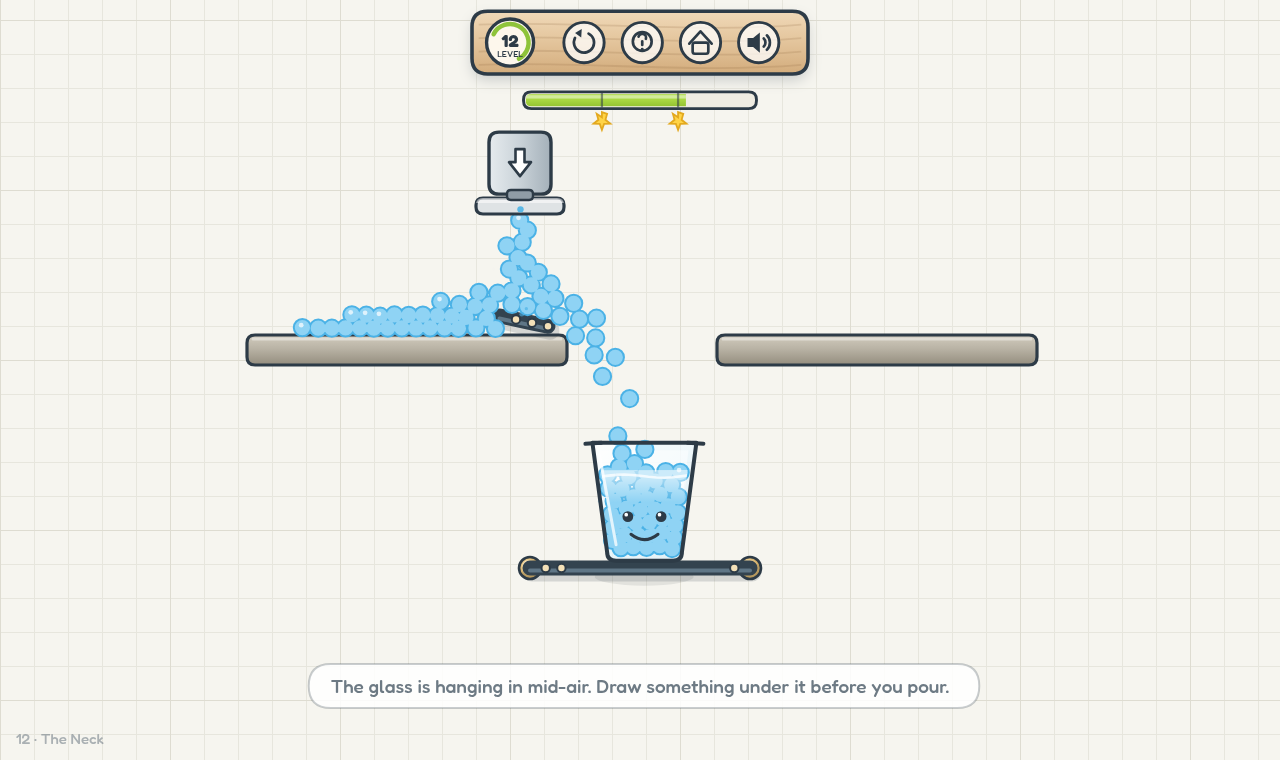
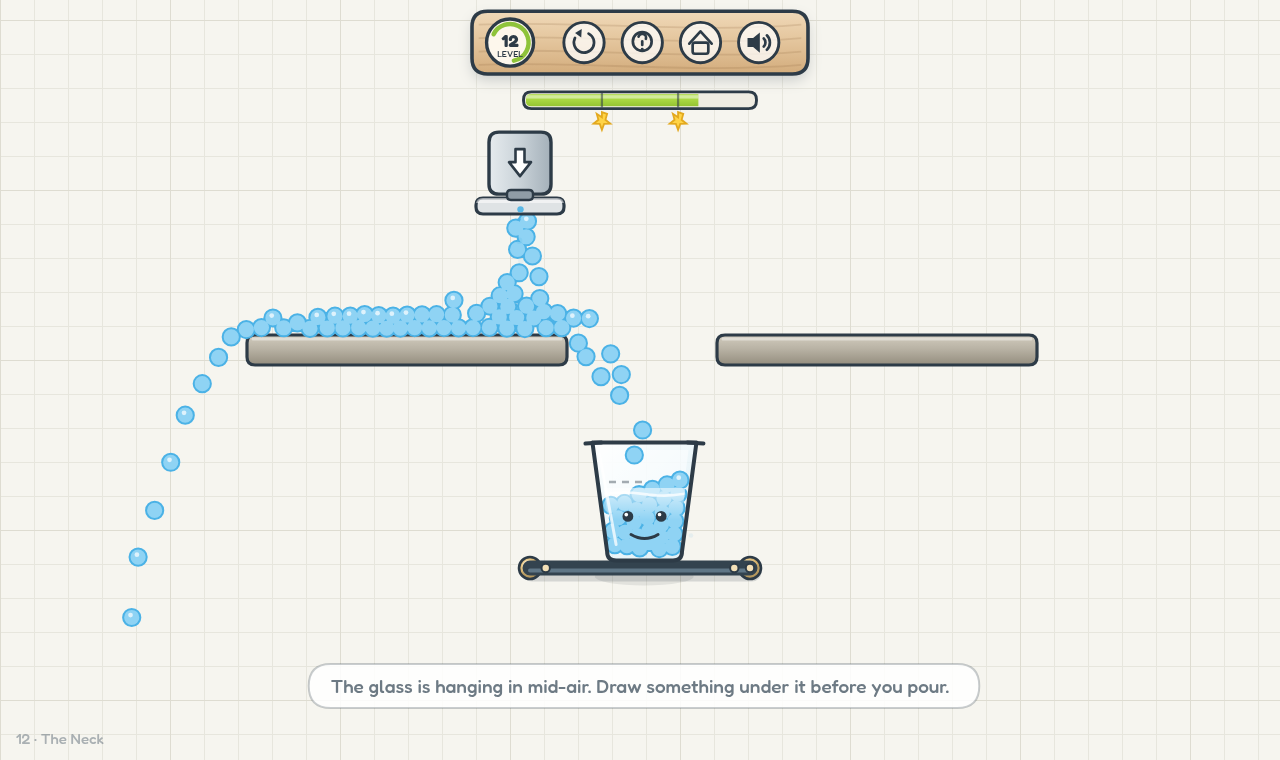
fix ink self-anchoring, anchor-aware solutions, smoke coverage for falling ink and live tap

diff --git a/tools/solutions.js b/tools/solutions.js
@@ -12,54 +12,53 @@
 
 module.exports = {
   1: [],                                                     // falls straight in
-  2: [[[378, 191], [378, 300], [700, 372]]],                 // hung from the tap
-  3: [[[498, 191], [498, 292], [672, 366]]],
-  4: [[[390, 191], [390, 250], [790, 320]]],
-  5: [[[490, 362], [640, 286], [812, 432], [812, 539]]],     // splitter, pegged on the right coaster
-  6: [[[534, 200], [534, 332], [612, 376]]],
-  7: [[[300, 191], [300, 250], [810, 350]]],
-  8: [[[396, 191], [396, 288], [862, 380]]],
-  9: [[[450, 191], [450, 250], [700, 290]]],
-  10: [[[370, 191], [370, 250], [830, 370]]],
-  11: [[[230, 191], [230, 300], [420, 380]],
-       [[1050, 191], [1050, 300], [860, 380]]],
-  12: [[[500, 296], [556, 308]],                            // slide through the neck
-       [[530, 548], [750, 548]]],                           // pinned shelf under the glass
-  13: [[[360, 191], [360, 300], [860, 400]]],
-  14: [[[359, 191], [340, 230], [870, 320]]],
+  2: [[[378, 208], [378, 300], [700, 372]]],                 // hung from the tap
+  3: [[[498, 208], [498, 292], [672, 366]]],
+  4: [[[390, 208], [390, 250], [790, 320]]],
+  5: [[[640, 208], [500, 320], [448, 410]],
+      [[640, 208], [780, 320], [842, 410]]],     // splitter hanging from the tap
+  6: [[[534, 232], [534, 332], [612, 376]]],
+  7: [[[300, 208], [300, 250], [810, 350]]],
+  8: [[[396, 208], [396, 288], [862, 380]]],
+  9: [[[450, 208], [450, 250], [700, 290]]],
+  10: [[[370, 208], [370, 250], [830, 370]]],
+  11: [[[230, 208], [230, 300], [420, 380]],
+       [[1050, 208], [1050, 300], [860, 380]]],
+  12: [[[530, 548], [750, 548]]],                           // pinned shelf under the glass
+  13: [[[360, 208], [360, 300], [860, 400]]],
+  14: [[[359, 208], [340, 230], [870, 320]]],
   15: [[[440, 320], [626, 286]], [[840, 320], [654, 286]]], // splitter nailed to two pins
-  16: [[[605, 191], [605, 240], [692, 294]]],
-  17: [[[500, 200], [450, 250], [860, 360]],                // ramp over the patrol
+  16: [[[605, 208], [605, 240], [692, 294]]],
+  17: [[[500, 208], [450, 250], [860, 360]],                // ramp over the patrol
        [[800, 548], [1005, 548]]],                          // shelf between the pins
-  18: [[[209, 191], [190, 230], [890, 370]]],
-  19: [[[270, 191], [270, 250], [930, 350]]],
-  20: [[[358, 191], [358, 258], [878, 478]]],
-  21: [[[430, 510], [452, 500], [710, 352]]],               // hooked on a pin, slides left
-  22: [[[930, 191], [930, 250], [520, 290]]],
-  23: [[[265, 191], [265, 220], [856, 354]]],
-  24: [[[340, 191], [340, 290], [240, 450]],
-       [[940, 301], [940, 350], [690, 410]]],
-  25: [[[611, 401], [450, 340], [640, 250], [830, 340]]],
-  26: [[[400, 191], [400, 250], [640, 310]],
+  18: [[[209, 208], [190, 230], [890, 370]]],
+  19: [[[270, 208], [270, 250], [930, 350]]],
+  20: [[[358, 208], [358, 258], [878, 478]]],
+  21: [[[710, 352], [650, 420], [490, 470]]],               // pegged to a pin, slides into the glass
+  22: [[[930, 208], [930, 250], [520, 290]]],
+  23: [[[265, 208], [265, 220], [856, 354]]],
+  24: [[[340, 208], [340, 290], [240, 450]],
+       [[940, 318], [940, 350], [690, 410]]],
+  25: [[[603, 401], [450, 340], [640, 250], [830, 340]]],
+  26: [[[400, 208], [400, 250], [640, 310]],
        [[600, 472], [800, 472]]],
-  27: [[[320, 191], [320, 250], [455, 330]],
-       [[965, 191], [965, 250], [825, 330]],
+  27: [[[320, 208], [320, 250], [455, 330]],
+       [[965, 208], [965, 250], [825, 330]],
        [[380, 470], [560, 470]],
        [[720, 470], [900, 470]]],
-  28: [[[720, 191], [720, 230], [540, 350]],
+  28: [[[720, 208], [720, 230], [540, 350]],
        [[425, 515], [615, 515]]],
-  29: [[[590, 191], [590, 250], [630, 300]],
+  29: [[[590, 208], [590, 250], [630, 300]],
        [[545, 475], [735, 475]]],
   30: [[[560, 510], [730, 510]]],
-  31: [[[300, 191], [300, 250], [600, 330]],
-       [[550, 505], [740, 505]]],
-  32: [[[370, 191], [370, 300], [720, 390]],
-       [[645, 545], [835, 545]],
-       [[1040, 342], [1030, 340], [870, 290]]],
-  33: [[[600, 191], [600, 240], [820, 340]],
+  31: [[[300, 208], [300, 250], [600, 330]],
+       [[562, 505], [718, 505]]],
+  32: [[[370, 208], [370, 300], [720, 390]],
+       [[645, 545], [835, 545]]],
+  33: [[[600, 208], [600, 240], [820, 340]],
        [[805, 545], [995, 545]]],
-  34: [[[480, 191], [470, 300], [760, 330]],
+  34: [[[480, 208], [470, 300], [760, 330]],
        [[725, 530], [915, 530]]],
-  35: [[[280, 191], [280, 240], [970, 380]],
+  35: [[[280, 208], [280, 240], [970, 380]],
        [[905, 505], [1095, 505]]],
 };

diff --git a/tools/smoke.js b/tools/smoke.js
@@ -63,17 +63,25 @@ const wait = (ms) => new Promise((r) => setTimeout(r, ms));
   Game.startLevel(7);
   await wait(60);
   const toScreen = (wx, wy) => Game.renderer.toScreen(wx, wy);
-  const a = toScreen(300, 250), b = toScreen(810, 350);
-  canvas.dispatchEvent(ev('pointerdown', a.x, a.y));
-  for (let i = 1; i <= 12; i++) {
-    const p = toScreen(300 + (810 - 300) * (i / 12), 250 + (350 - 250) * (i / 12));
-    const m = new w.MouseEvent('pointermove', { bubbles: true, clientX: p.x, clientY: p.y });
-    Object.defineProperty(m, 'pointerId', { value: 1 });
-    w.dispatchEvent(m);
-  }
-  const up = new w.MouseEvent('pointerup', { bubbles: true });
-  Object.defineProperty(up, 'pointerId', { value: 1 });
-  w.dispatchEvent(up);
+  // drag along a polyline: the first point sits on the tap housing, so the ink
+  // has something to anchor to (an unanchored line would fall)
+  const drag = (pts) => {
+    const s0 = toScreen(pts[0][0], pts[0][1]);
+    canvas.dispatchEvent(ev('pointerdown', s0.x, s0.y));
+    for (let k = 1; k < pts.length; k++) {
+      const [ax, ay] = pts[k - 1], [bx, by] = pts[k];
+      for (let i = 1; i <= 12; i++) {
+        const p = toScreen(ax + (bx - ax) * (i / 12), ay + (by - ay) * (i / 12));
+        const m = new w.MouseEvent('pointermove', { bubbles: true, clientX: p.x, clientY: p.y });
+        Object.defineProperty(m, 'pointerId', { value: 1 });
+        w.dispatchEvent(m);
+      }
+    }
+    const up = new w.MouseEvent('pointerup', { bubbles: true });
+    Object.defineProperty(up, 'pointerId', { value: 1 });
+    w.dispatchEvent(up);
+  };
+  drag([[300, 208], [300, 250], [810, 350]]);
   await wait(60);
   check('ink recorded from pointer input', Game.scene.ink.used > 300);
   check('tap opened', Game.scene.state !== 'idle');
@@ -109,8 +117,8 @@ const wait = (ms) => new Promise((r) => setTimeout(r, ms));
     Object.defineProperty(up2, 'pointerId', { value: 1 });
     w.dispatchEvent(up2);
   };
-  drawStroke([[400, 250], [640, 310]]);
-  drawStroke([[630, 470], [790, 470]]);
+  drawStroke([[400, 208], [400, 250], [640, 310]]);
+  drawStroke([[616, 472], [790, 472]]);
   await wait(60);
   const g26 = Game.scene.glasses[0];
   check('floating glass is dynamic', g26.dynamic && !!g26.body);
@@ -119,6 +127,34 @@ const wait = (ms) => new Promise((r) => setTimeout(r, ms));
   check('dynamic glass level resolves (won=' + Game.scene.state + ')', Game.scene.state === 'won');
   check('dynamic glass stayed supported', Math.abs(Game.scene.glasses[0].cy - y0) < 40);
   check('dynamic glass got filled', Game.scene.glasses[0].fill > 0.5);
+
+  // ---- anchoring: an unanchored stroke must fall, an anchored one must hold
+  Game.startLevel(1);
+  await wait(60);
+  drawStroke([[400, 250], [560, 250]]);          // touches nothing at all
+  await wait(80);
+  const stA = Game.scene.ink.strokes[Game.scene.ink.strokes.length - 1];
+  check('mid-air stroke is not anchored', stA.anchored === false);
+  check('mid-air stroke became a falling body', !!stA.body);
+  const yStart = stA.body.position.y;
+  for (let i = 0; i < 40; i++) await wait(16);
+  check('mid-air stroke really falls', stA.body === null || stA.body.position.y > yStart + 30);
+
+  // the tap must keep running while a second stroke is being drawn
+  Game.startLevel(3);
+  await wait(60);
+  drawStroke([[498, 230], [600, 300]]);          // starts on the tap plate
+  for (let i = 0; i < 30; i++) await wait(16);
+  const tap = Game.scene.faucets[0];
+  const before = tap.remaining;
+  const s0 = toScreen(300, 400);
+  canvas.dispatchEvent(ev('pointerdown', s0.x, s0.y));   // finger down, no stroke yet
+  for (let i = 0; i < 25; i++) await wait(16);
+  const after = Game.scene.faucets[0].remaining;
+  const up3 = new w.MouseEvent('pointerup', { bubbles: true });
+  Object.defineProperty(up3, 'pointerId', { value: 1 });
+  w.dispatchEvent(up3);
+  check('tap keeps pouring while drawing again', after < before - 1);
 
   console.log(report.join('\n'));
   if (errors.length) {

diff --git a/js/scene.js b/js/scene.js
@@ -433,10 +433,16 @@
     // solid things your ink can be nailed to: scenery, crates and the tap itself
     anchorBodies() {
       if (this._anchors) return this._anchors;
-      this._anchors = Composite.allBodies(this.world).filter(
-        (b) => b.isStatic && (b.label === 'platform' || b.label === 'crate' ||
-          b.label === 'faucet' || b.label === 'pin' || b.label === 'ink')
-      );
+      this._anchors = Composite.allBodies(this.world).filter((b) => {
+        if (!b.isStatic) return false;
+        if (b.label === 'ink') {
+          // only a finished, anchored stroke can hold another stroke — the
+          // segments of the line you are drawing must never anchor themselves
+          return !!(b.strokeRef && b.strokeRef.anchored);
+        }
+        return b.label === 'platform' || b.label === 'crate' ||
+          b.label === 'faucet' || b.label === 'pin';
+      });
       return this._anchors;
     }
 
@@ -464,6 +470,7 @@
     }
 
     beginInk(x, y) {
+      this._anchors = null;
       if (this.inkRemaining() <= 0) return false;
       this.ink.active = { points: [{ x, y }], segs: [], pins: [] };
       return true;
@@ -495,12 +502,14 @@
       );
       body.isProvisional = true;
       Composite.add(this.world, body);
+      body.strokeRef = null;   // set below, once the seg exists
       const seg = {
         x1: last.x, y1: last.y, x2: nx, y2: ny,
         mx: (last.x + nx) / 2, my: (last.y + ny) / 2,
         angle, len: len + INK_W * 0.9,
         body: body, stroke: st, dyn: false,
       };
+      body.strokeRef = st;
       st.segs.push(seg);
       this.ink.segments.push(seg);
       st.points.push({ x: nx, y: ny });
@@ -572,7 +581,7 @@
       let n = 0;
       for (const seg of this.ink.segments) {
         let x1, y1, x2, y2;
-        if (seg.dyn && seg.stroke && seg.stroke.body) {
+        if (seg.dyn && seg.stroke && seg.stroke.body && !seg.stroke.gone) {
           const b = seg.stroke.body;
           const c = Math.cos(b.angle), s = Math.sin(b.angle);
           const mx = b.position.x + seg.lx * c - seg.ly * s;
@@ -730,6 +739,18 @@
         }
       }
       this.shake = M.approach(this.shake, 0, 6, sec);
+
+      // a stroke that lost its anchor has fallen out of the level — forget it
+      for (const st of this.ink.strokes) {
+        if (st.gone || !st.body) continue;
+        if (st.body.position.y > HG.H + 420) {
+          Composite.remove(this.world, st.body);
+          st.gone = true;
+          st.body = null;
+          this.ink.segments = this.ink.segments.filter((sg) => sg.stroke !== st);
+          this._segCache = null;
+        }
+      }
 
       // ---- win / lose timing
       if (this.state !== 'won' && this.state !== 'lost') {

diff --git a/index.html b/index.html
@@ -77,7 +77,7 @@
         <ol class="how-list">
           <li>
             <span class="how-num">1</span>
-            <div><b>Draw a path.</b> Press and drag anywhere in the level to sketch a solid line. Water slides along whatever you draw.</div>
+            <div><b>Draw a path.</b> Press and drag anywhere in the level to sketch a solid line. Water slides along whatever you draw, and you can draw again and again — nothing pauses while the tap is running.</div>
           </li>
           <li>
             <span class="how-num">2</span>
@@ -93,13 +93,18 @@
           </li>
           <li>
             <span class="how-num">5</span>
-            <div><b>Use the scenery.</b> You can't draw on planks, crates, spinners or inside a glass — but all of them make great anchors and walls. Blowers, diamonds and heated pads are all fair game.</div>
+            <div><b>Anchor your ink.</b> Ink is heavy: a line that isn't hooked onto something drops out of the level. Start the line just under the tap, on a plank, a crate or a push-pin and it is nailed down — you'll see a little nail dot where it holds.</div>
+          </li>
+          <li>
+            <span class="how-num">6</span>
+            <div><b>Use the scenery.</b> You can't draw on planks, crates, spinners or inside a glass — but all of them make great anchors and walls. Push-pins, blowers, diamonds and heated pads are all fair game.</div>
           </li>
         </ol>
         <div class="how-tips">
           <p><b>Tips</b></p>
           <ul>
             <li>Aim a line at the centre of the stream instead of trying to catch every drop.</li>
+            <li>Unanchored lines fall, so peg long ramps to two pins or a wall whenever you can.</li>
             <li>Short hooks and wedges beat long bridges — and cost less ink.</li>
             <li>Moving hazards waste water, so draw a shield before the stream reaches them.</li>
           </ul>

diff --git a/js/levels.js b/js/levels.js
@@ -165,7 +165,7 @@
       tip: 'Two spinning bars. Pin one down with ink and guide the water past.',
       ink: 650,
       faucet: { x: 640, y: 190, rate: 46, total: 112 },
-      glasses: [{ x: 880, y: 470, w: 104, h: 118, need: 0.64 }],
+      glasses: [{ x: 880, y: 470, w: 104, h: 118, need: 0.62 }],
       spinners: [{ x: 520, y: 280, w: 210, h: 16 }, { x: 760, y: 380, w: 190, h: 16 }],
     },
     {
@@ -210,9 +210,9 @@
       name: 'Twin Spinners',
       tip: 'Two crossed spinners make a mess. A wide funnel keeps the stream together.',
       ink: 650,
-      faucet: { x: 640, y: 190, rate: 50, total: 148 },
-      pins: [{ x: 430, y: 510 }],
-      glasses: [{ x: 420, y: 540, w: 112, h: 118, need: 0.52 }],
+      faucet: { x: 640, y: 190, rate: 52, total: 178 },
+      pins: [{ x: 710, y: 352 }],
+      glasses: [{ x: 420, y: 540, w: 112, h: 118, need: 0.38 }],
       platforms: [P({ x: 420, y: 640, w: 300, h: 26, kind: 'metal' })],
       spinners: [{ x: 600, y: 245, w: 230, h: 16 }, { x: 500, y: 350, w: 200, h: 16 }],
       crates: [{ x: 900, y: 560, size: 80, kind: 'teal' }, { x: 260, y: 640, size: 76 }],
@@ -332,6 +332,7 @@
       ink: 1550,
       faucet: { x: 330, y: 190, rate: 48, total: 130 },
       glasses: [{ x: 640, y: 430, w: 104, h: 118, need: 0.68, hanging: true }],
+      pins: [{ x: 562, y: 505 }, { x: 718, y: 505 }],
       platforms: [
         P({ poly: [[430, 700], [430, 650], [790, 560], [1140, 560], [1140, 700]], kind: 'teal' }),
       ],

diff --git a/README.md b/README.md
@@ -28,6 +28,10 @@ npm run shots        # renders canvas screenshots to shots/
 | --- | --- |
 | ![support](docs/screenshot-support.png) | ![wedge](docs/screenshot-wedge.png) |
 
+| Ink hung from the tap splits one stream in two | Falling ink is real ink: unsupported lines drop out |
+| --- | --- |
+| ![split](docs/screenshot-split.png) | ![levels](docs/levels.png) |
+
 ---
 
 ## 1. How the real game works (research summary)
